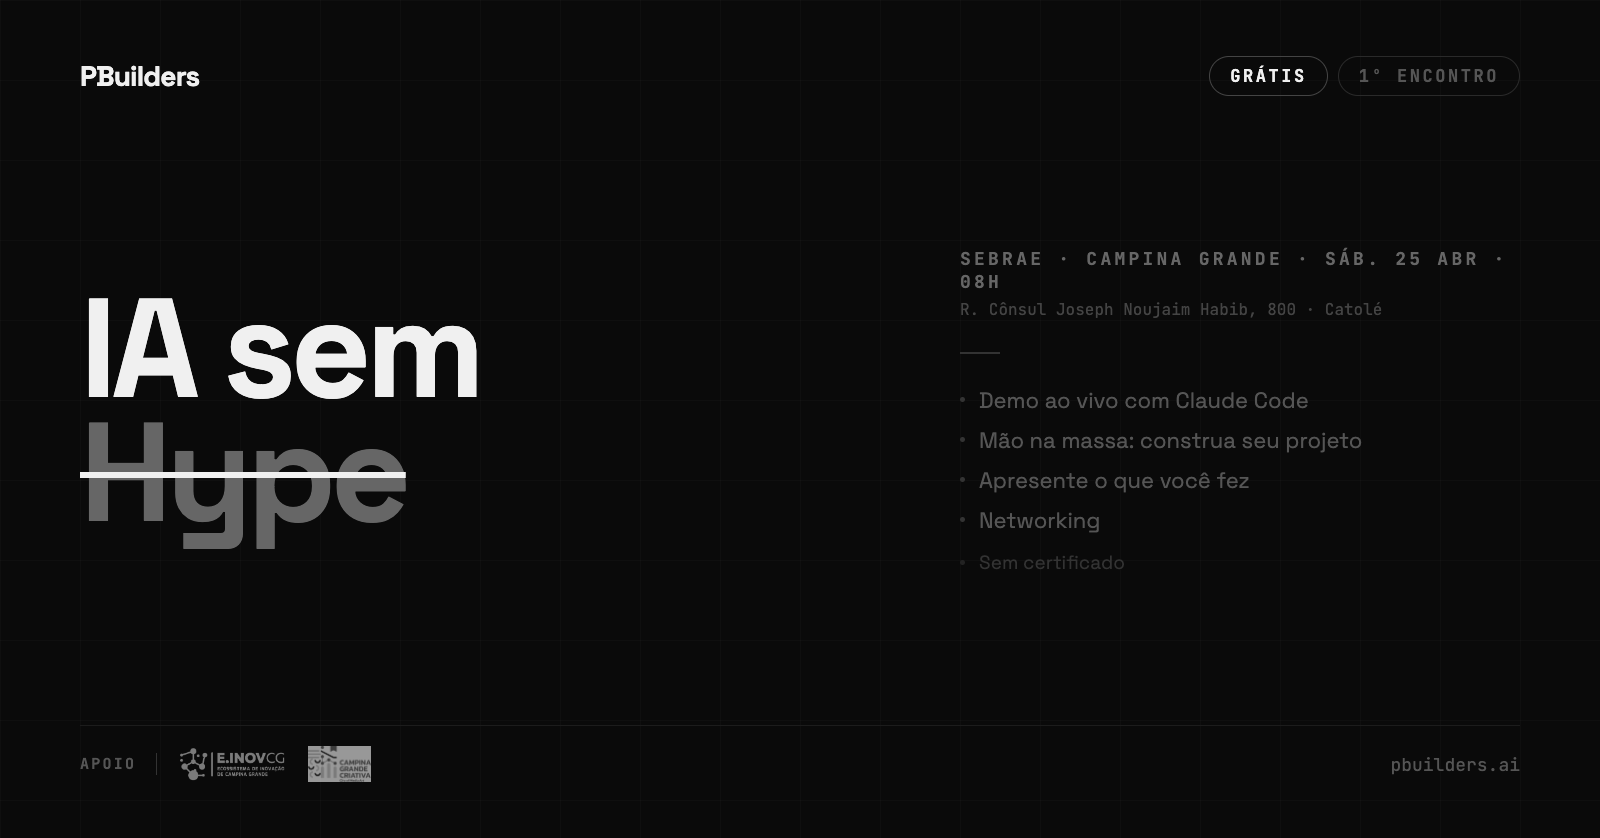
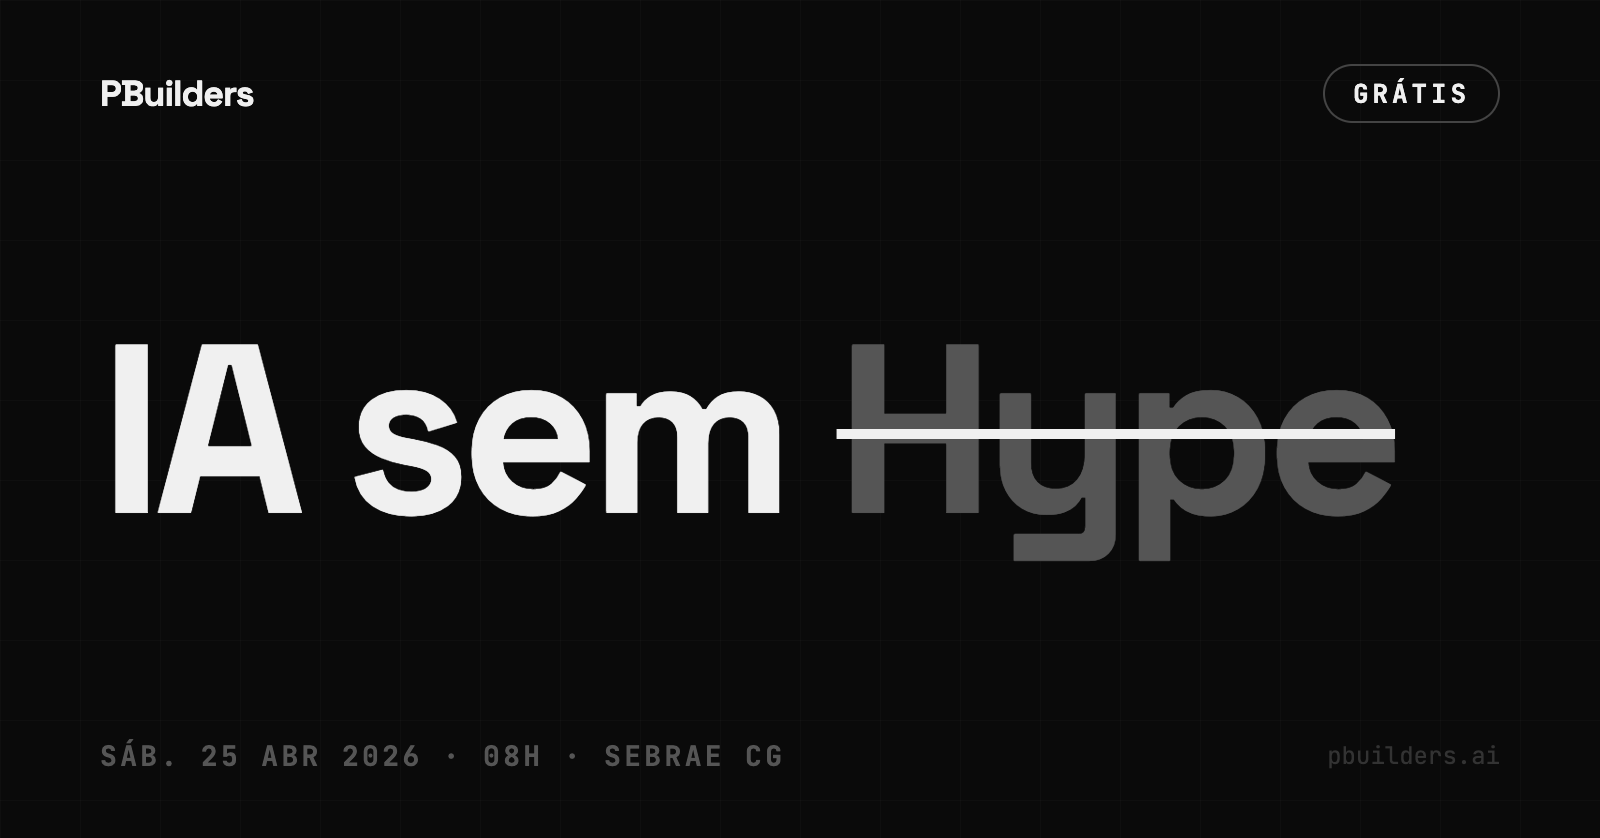
capa-sympla: redesign para legibilidade em thumbnail (285x163)
Headline 240px, layout limpo — só o essencial visível no tamanho pequeno

diff --git a/eventos/ia-sem-hype/midia/capa-sympla.html b/eventos/ia-sem-hype/midia/capa-sympla.html
@@ -26,7 +26,7 @@
       display: flex;
       flex-direction: column;
       justify-content: space-between;
-      padding: 56px 80px;
+      padding: 64px 100px;
     }
 
     .slide::before {
@@ -49,32 +49,22 @@
     }
 
     .logo-pb {
-      font-size: 28px;
+      font-size: 36px;
       font-weight: 700;
       color: #F0F0F0;
       letter-spacing: -0.03em;
     }
 
-    .tags {
-      display: flex;
-      gap: 10px;
-    }
-
-    .tag {
+    .tag-free {
       font-family: 'JetBrains Mono', monospace;
-      font-size: 17px;
+      font-size: 26px;
       font-weight: 700;
       text-transform: uppercase;
       letter-spacing: 0.15em;
-      color: #555;
-      border: 1px solid #2A2A2A;
-      padding: 8px 20px;
-      border-radius: 999px;
-    }
-
-    .tag.free {
       color: #F0F0F0;
-      border-color: #444;
+      border: 2px solid #444;
+      padding: 10px 28px;
+      border-radius: 999px;
     }
 
     .body {
@@ -82,85 +72,23 @@
       z-index: 1;
       flex: 1;
       display: flex;
-      align-items: center;
-      gap: 100px;
-      padding: 24px 0;
-    }
-
-    .left {
-      flex: 1;
+      flex-direction: column;
+      justify-content: center;
     }
 
     .headline {
-      font-size: 140px;
+      font-size: 240px;
       font-weight: 700;
-      line-height: 0.88;
+      line-height: 0.85;
       letter-spacing: -0.04em;
       color: #F0F0F0;
     }
 
     .headline .hype {
-      color: #666;
-      text-decoration: line-through;
-      text-decoration-thickness: 6px;
-      text-decoration-color: #F0F0F0;
-    }
-
-    .right {
-      width: 560px;
-      display: flex;
-      flex-direction: column;
-      gap: 32px;
-    }
-
-    .info {
-      display: flex;
-      flex-direction: column;
-      gap: 6px;
-    }
-
-    .eyebrow {
-      font-family: 'JetBrains Mono', monospace;
-      font-size: 18px;
-      font-weight: 700;
-      text-transform: uppercase;
-      letter-spacing: 0.18em;
-      color: #666;
-    }
-
-    .address {
-      font-family: 'JetBrains Mono', monospace;
-      font-size: 16px;
-      color: #444;
-    }
-
-    .divider {
-      width: 40px;
-      height: 2px;
-      background: #333;
-    }
-
-    .topics {
-      display: flex;
-      flex-direction: column;
-      gap: 12px;
-    }
-
-    .topic {
-      display: flex;
-      align-items: center;
-      gap: 14px;
-      font-size: 22px;
-      font-weight: 400;
       color: #555;
-    }
-
-    .topic-dot {
-      width: 5px;
-      height: 5px;
-      border-radius: 50%;
-      background: #333;
-      flex-shrink: 0;
+      text-decoration: line-through;
+      text-decoration-thickness: 10px;
+      text-decoration-color: #F0F0F0;
     }
 
     .footer {
@@ -169,42 +97,21 @@
       justify-content: space-between;
       position: relative;
       z-index: 1;
-      border-top: 1px solid #1C1C1C;
-      padding-top: 20px;
     }
 
-    .apoio {
-      display: flex;
-      align-items: center;
-      gap: 20px;
-    }
-
-    .apoio-label {
+    .date {
       font-family: 'JetBrains Mono', monospace;
-      font-size: 15px;
+      font-size: 28px;
       font-weight: 700;
       text-transform: uppercase;
-      letter-spacing: 0.15em;
+      letter-spacing: 0.12em;
       color: #555;
-      white-space: nowrap;
-    }
-
-    .apoio-divider {
-      width: 1px;
-      height: 22px;
-      background: #333;
-    }
-
-    .apoio img {
-      height: 36px;
-      opacity: 0.6;
-      filter: grayscale(100%);
     }
 
     .footer-right {
       font-family: 'JetBrains Mono', monospace;
-      font-size: 18px;
-      color: #555;
+      font-size: 24px;
+      color: #333;
     }
   </style>
 </head>
@@ -214,39 +121,15 @@
 
     <div class="header">
       <div class="logo-pb">PBuilders</div>
-      <div class="tags">
-        <div class="tag free">Grátis</div>
-        <div class="tag">1º Encontro</div>
-      </div>
+      <div class="tag-free">Grátis</div>
     </div>
 
     <div class="body">
-      <div class="left">
-        <div class="headline">IA sem<br><span class="hype">Hype</span></div>
-      </div>
-      <div class="right">
-        <div class="info">
-          <div class="eyebrow">Sebrae · Campina Grande · sáb. 25 abr · 08h</div>
-          <div class="address">R. Cônsul Joseph Noujaim Habib, 800 · Catolé</div>
-        </div>
-        <div class="divider"></div>
-        <div class="topics">
-          <div class="topic"><span class="topic-dot"></span>Demo ao vivo com Claude Code</div>
-          <div class="topic"><span class="topic-dot"></span>Mão na massa: construa seu projeto</div>
-          <div class="topic"><span class="topic-dot"></span>Apresente o que você fez</div>
-          <div class="topic"><span class="topic-dot"></span>Networking</div>
-          <div class="topic" style="margin-top:4px;color:#333;font-size:19px;"><span class="topic-dot" style="background:#222;"></span>Sem certificado</div>
-        </div>
-      </div>
+      <div class="headline">IA sem <span class="hype">Hype</span></div>
     </div>
 
     <div class="footer">
-      <div class="apoio">
-        <span class="apoio-label">Apoio</span>
-        <span class="apoio-divider"></span>
-        <img src="../../../site/logo-einovcg.png" alt="E.InovCG">
-        <img src="../../../site/logo-cgcriativa.jpg" alt="Campina Grande Criativa">
-      </div>
+      <div class="date">Sáb. 25 abr 2026 · 08h · Sebrae CG</div>
       <div class="footer-right">pbuilders.ai</div>
     </div>
 
